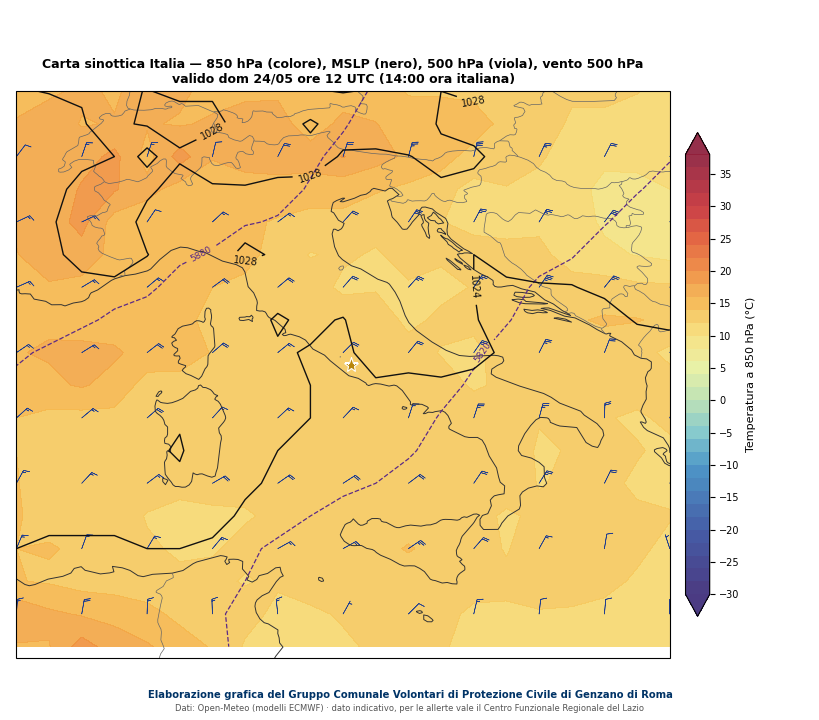
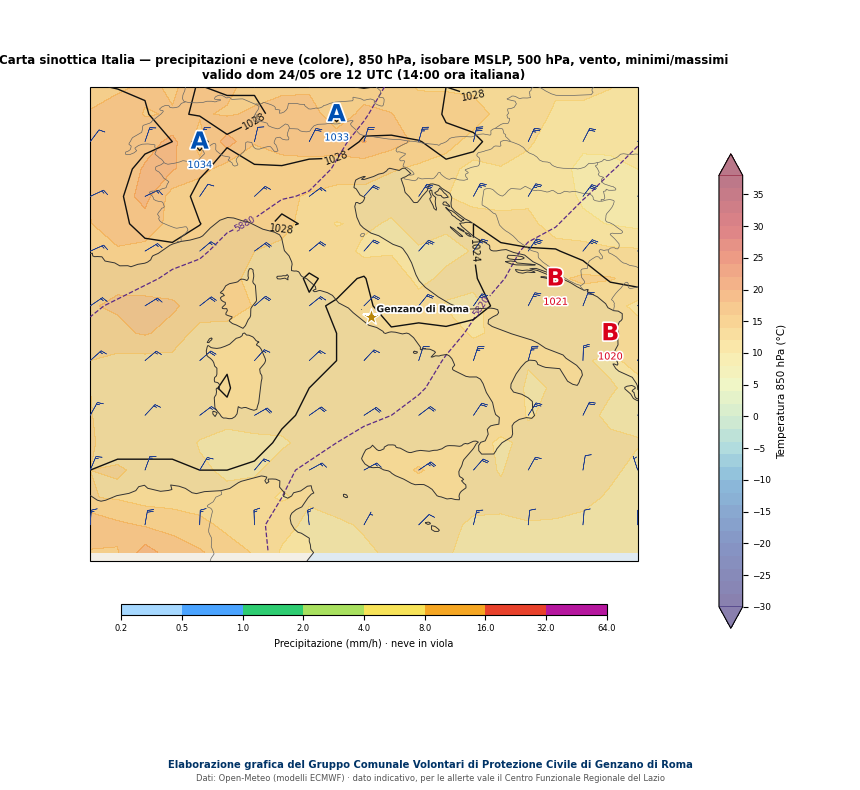
Meteo: sinottica completa (precipitazioni/neve a colori, minimi/massimi B/A, isoterma 0°C 850hPa, doppia legenda) + riquadro Genzano di Roma completo + cartine a piena larghezza
- sinottica: campo precipitazioni e neve a colori (stile radar), centri di pressione B/A con valore, isoterma 0°C a 850hPa (limite pioggia/neve), sfondo terra/mare, label Genzano di Roma, doppia colorbar (temp + precip)
- cartina Lazio: riquadro Genzano di Roma completo (adesso, percepita, max/min, umidità, vento+raffiche, UV, alba, tramonto, prossimi 3 giorni) + province con max/min
- /allerte-meteo/ e confronto: cartine in colonna unica a piena larghezza (leggibilità)

diff --git a/themes/flavour-pcgenzano/static/css/custom.css b/themes/flavour-pcgenzano/static/css/custom.css
@@ -6532,9 +6532,10 @@ html.a11y-pause-anim .consulta-rapida .cr-card:hover { transform: none; }
    METEO CONFRONTO v1.0 — pagina temporanea /meteo-confronto/
    Due opzioni di cartina animata affiancate (A: Lazio SVG, B: sinottica WebP).
    ============================================================ */
-.meteo-confronto { display: grid; grid-template-columns: 1fr 1fr; gap: 1.6rem; margin: 1.6rem 0; }
+/* colonna unica: mappe a piena larghezza per la massima leggibilità */
+.meteo-confronto { display: grid; grid-template-columns: 1fr; gap: 2.2rem; margin: 1.6rem 0; }
 .meteo-confronto-col { min-width: 0; }
-.meteo-confronto-col h2 { margin-top: 0; }
+.meteo-confronto-col h2, .meteo-confronto-col h3 { margin-top: 0; color: #003366; }
 .meteo-confronto-col figure { margin: 0 0 .7rem; max-width: none; }
 .meteo-confronto-col img { width: 100%; height: auto; border: 1px solid #d4dde6;
   border-radius: 8px; background: #fff; box-shadow: 0 2px 8px rgba(0,51,102,.08); }
@@ -6542,4 +6543,3 @@ html.a11y-pause-anim .consulta-rapida .cr-card:hover { transform: none; }
 .meteo-confronto-col p { font-size: .95rem; margin: .4rem 0; }
 .meteo-confronto-nota { background: #e7f0fa; border-left: 4px solid #003366;
   border-radius: 6px; padding: .85rem 1.05rem; font-size: .95rem; margin-top: 1rem; }
-@media (max-width: 768px) { .meteo-confronto { grid-template-columns: 1fr; } }

diff --git a/scripts/genera-meteo-sinottica.py b/scripts/genera-meteo-sinottica.py
@@ -32,9 +32,11 @@ import numpy as np
 import matplotlib
 matplotlib.use("Agg")
 import matplotlib.pyplot as plt
-from matplotlib.colors import LinearSegmentedColormap
+from matplotlib.colors import LinearSegmentedColormap, ListedColormap, BoundaryNorm
+from matplotlib.cm import ScalarMappable
 import cartopy.crs as ccrs
 import cartopy.feature as cfeature
+import matplotlib.patheffects as pe
 from PIL import Image
 
 ROOT = os.path.dirname(os.path.dirname(os.path.abspath(__file__)))
@@ -57,7 +59,8 @@ STEP_H = 6                 # ogni 6 ore -> 72 ore
 GENZANO = (41.7085, 12.6916)
 
 HOURLY_VARS = ("pressure_msl", "temperature_850hPa",
-               "geopotential_height_500hPa", "wind_speed_500hPa", "wind_direction_500hPa")
+               "geopotential_height_500hPa", "wind_speed_500hPa", "wind_direction_500hPa",
+               "precipitation", "snowfall")
 
 
 # ----------------------------------------------------------------- fetch a griglia
@@ -124,6 +127,36 @@ def cmap_t850():
     return LinearSegmentedColormap.from_list("t850", pts), lo, hi
 
 
+# scala precipitazioni (mm/h, stile radar) e neve (cm)
+PRECIP_LEVELS = [0.2, 0.5, 1, 2, 4, 8, 16, 32, 64]
+PRECIP_COLORS = ["#a6d8ff", "#4aa3ff", "#2ecc71", "#a8e05f", "#f7e359", "#f5a623", "#e8412b", "#b5179e"]
+SNOW_LEVELS = [0.1, 0.5, 1, 2, 5, 10]
+SNOW_COLORS = ["#e6f2ff", "#bcd6ff", "#c3b6e8", "#9a7fd6", "#6f4fc0"]
+
+
+def find_centers(field, lon2d, lat2d, kind, n=2):
+    """Minimi (B) o massimi (A) locali della pressione, per marcare le strutture."""
+    ny, nx = field.shape
+    mean = float(np.nanmean(field))
+    out = []
+    for iy in range(1, ny - 1):
+        for ix in range(1, nx - 1):
+            v = field[iy, ix]
+            if np.isnan(v):
+                continue
+            win = field[iy - 1:iy + 2, ix - 1:ix + 2].copy()
+            win[1, 1] = np.nan
+            nb = win[~np.isnan(win)]
+            if nb.size == 0:
+                continue
+            if kind == "B" and v < nb.min() and v < mean - 1.0:
+                out.append((v, float(lon2d[iy, ix]), float(lat2d[iy, ix])))
+            if kind == "A" and v > nb.max() and v > mean + 1.0:
+                out.append((v, float(lon2d[iy, ix]), float(lat2d[iy, ix])))
+    out.sort(key=lambda r: r[0], reverse=(kind == "A"))
+    return out[:n]
+
+
 def main():
     now_utc = datetime.datetime.now(datetime.timezone.utc)
     now_roma = datetime.datetime.now(TZ_ROMA)
@@ -153,57 +186,106 @@ def main():
 
     frames = []
     preview_path = None
+    pcmap = ListedColormap(PRECIP_COLORS); pnorm = BoundaryNorm(PRECIP_LEVELS, pcmap.N)
+    scmap = ListedColormap(SNOW_COLORS); snorm = BoundaryNorm(SNOW_LEVELS, scmap.N)
+    land = cfeature.NaturalEarthFeature("physical", "land", "50m", facecolor="#f3efe6")
+    ocean = cfeature.NaturalEarthFeature("physical", "ocean", "50m", facecolor="#dfeaf2")
+
     for fi, hi in enumerate(indici):
         t850 = campo(results, "temperature_850hPa", nlat, nlon, hi)
         mslp = campo(results, "pressure_msl", nlat, nlon, hi)
         g500 = campo(results, "geopotential_height_500hPa", nlat, nlon, hi)
         ws = campo(results, "wind_speed_500hPa", nlat, nlon, hi)
         wd = campo(results, "wind_direction_500hPa", nlat, nlon, hi)
+        precip = campo(results, "precipitation", nlat, nlon, hi)
+        snow = campo(results, "snowfall", nlat, nlon, hi)
         # vento -> componenti (kt). dir = direzione DA cui spira.
         wr = np.radians(wd)
         u = -(ws / 1.852) * np.sin(wr)
         v = -(ws / 1.852) * np.cos(wr)
 
-        fig = plt.figure(figsize=(8.2, 7.2), dpi=100)
+        fig = plt.figure(figsize=(8.6, 7.9), dpi=100)
         ax = plt.axes(projection=proj)
         ax.set_extent([LON_MIN, LON_MAX, LAT_MIN, LAT_MAX], crs=proj)
 
+        # sfondo terra/mare tenue
+        ax.add_feature(land, zorder=0)
+        ax.add_feature(ocean, zorder=0)
+        # campo termico 850 hPa (sfondo, attenuato)
         cf = ax.contourf(lon2d, lat2d, t850, levels=t_levels, cmap=cmap,
-                         vmin=tlo, vmax=thi, extend="both", transform=proj, alpha=0.92)
+                         vmin=tlo, vmax=thi, extend="both", transform=proj, alpha=0.60, zorder=1)
+        # precipitazioni (pioggia) a colori stile radar
+        pr = np.where(precip >= PRECIP_LEVELS[0], precip, np.nan)
+        if np.isfinite(pr).any():
+            ax.contourf(lon2d, lat2d, pr, levels=PRECIP_LEVELS, cmap=pcmap, norm=pnorm,
+                        extend="max", alpha=0.85, transform=proj, zorder=3)
+        # neve (palette viola)
+        sn = np.where(snow >= SNOW_LEVELS[0], snow, np.nan)
+        if np.isfinite(sn).any():
+            ax.contourf(lon2d, lat2d, sn, levels=SNOW_LEVELS, cmap=scmap, norm=snorm,
+                        extend="max", alpha=0.92, transform=proj, zorder=4)
+        # isoterma 0 °C a 850 hPa (limite indicativo pioggia/neve)
+        try:
+            ci = ax.contour(lon2d, lat2d, t850, levels=[0], colors="#0050b3",
+                            linewidths=1.6, linestyles=(0, (5, 2)), transform=proj, zorder=5)
+            ax.clabel(ci, inline=True, fontsize=6, fmt="0°C")
+        except Exception:
+            pass
         # geopotenziale 500 hPa (saccature/promontori)
         cg = ax.contour(lon2d, lat2d, g500, levels=g_levels, colors="#5b2a86",
-                        linewidths=0.9, linestyles="dashed", transform=proj)
+                        linewidths=0.9, linestyles="dashed", transform=proj, zorder=5)
         ax.clabel(cg, inline=True, fontsize=6.5, fmt="%d")
         # isobare MSLP
         cp = ax.contour(lon2d, lat2d, mslp, levels=p_levels, colors="#111111",
-                        linewidths=1.0, transform=proj)
+                        linewidths=1.0, transform=proj, zorder=6)
         ax.clabel(cp, inline=True, fontsize=7, fmt="%d")
         # barbe vento 500 hPa, sottocampionate
         s = 2
         ax.barbs(lon2d[::s, ::s], lat2d[::s, ::s], u[::s, ::s], v[::s, ::s],
-                 length=4.6, linewidth=0.45, color="#23408f", transform=proj)
+                 length=4.6, linewidth=0.45, color="#23408f", transform=proj, zorder=6)
 
-        ax.add_feature(coast)
-        ax.add_feature(borders)
-        ax.plot(GENZANO[1], GENZANO[0], marker="*", markersize=11, color="#b8860b",
-                markeredgecolor="#ffffff", markeredgewidth=0.8, transform=proj, zorder=6)
+        ax.add_feature(coast, zorder=7)
+        ax.add_feature(borders, zorder=7)
+
+        # minimi (B) e massimi (A) di pressione, con valore
+        stroke = [pe.withStroke(linewidth=2.4, foreground="white")]
+        for vv, lo_, la_ in find_centers(mslp, lon2d, lat2d, "B"):
+            ax.text(lo_, la_, "B", color="#d9001b", fontsize=17, fontweight="bold",
+                    ha="center", va="center", transform=proj, zorder=8, path_effects=stroke)
+            ax.text(lo_, la_ - 0.5, f"{round(vv)}", color="#d9001b", fontsize=7,
+                    ha="center", va="top", transform=proj, zorder=8, path_effects=stroke)
+        for vv, lo_, la_ in find_centers(mslp, lon2d, lat2d, "A"):
+            ax.text(lo_, la_, "A", color="#0050b3", fontsize=17, fontweight="bold",
+                    ha="center", va="center", transform=proj, zorder=8, path_effects=stroke)
+            ax.text(lo_, la_ - 0.5, f"{round(vv)}", color="#0050b3", fontsize=7,
+                    ha="center", va="top", transform=proj, zorder=8, path_effects=stroke)
+
+        # Genzano di Roma
+        ax.plot(GENZANO[1], GENZANO[0], marker="*", markersize=13, color="#b8860b",
+                markeredgecolor="#ffffff", markeredgewidth=0.9, transform=proj, zorder=9)
+        ax.text(GENZANO[1] + 0.15, GENZANO[0] + 0.12, "Genzano di Roma", fontsize=6.8,
+                fontweight="bold", color="#1a1a1a", transform=proj, zorder=9, path_effects=stroke)
 
         ft = parsed[hi]
         valid_roma = ft.replace(tzinfo=datetime.timezone.utc).astimezone(TZ_ROMA) if TZ_ROMA else ft
         ax.set_title(
-            f"Carta sinottica Italia — 850 hPa (colore), MSLP (nero), 500 hPa (viola), vento 500 hPa\n"
+            f"Carta sinottica Italia — precipitazioni e neve (colore), 850 hPa, isobare MSLP, 500 hPa, vento, minimi/massimi\n"
             f"valido {GIORNI[ft.weekday()]} {ft.day:02d}/{ft.month:02d} ore {ft.hour:02d} UTC "
             f"({valid_roma.hour:02d}:00 ora italiana)",
-            fontsize=9, fontweight="bold")
+            fontsize=8.5, fontweight="bold")
 
-        cb = fig.colorbar(cf, ax=ax, orientation="vertical", shrink=0.8, pad=0.02, ticks=range(-30, 40, 5))
-        cb.set_label("Temperatura a 850 hPa (°C)", fontsize=8)
-        cb.ax.tick_params(labelsize=7)
-        fig.text(0.5, 0.030, "Elaborazione grafica del Gruppo Comunale Volontari di Protezione Civile di Genzano di Roma",
+        cb = fig.colorbar(cf, ax=ax, orientation="vertical", shrink=0.78, pad=0.01, ticks=range(-30, 40, 5))
+        cb.set_label("Temperatura 850 hPa (°C)", fontsize=7.5)
+        cb.ax.tick_params(labelsize=6.5)
+        cb2 = fig.colorbar(ScalarMappable(norm=pnorm, cmap=pcmap), ax=ax, orientation="horizontal",
+                           shrink=0.7, pad=0.07, aspect=45, ticks=PRECIP_LEVELS)
+        cb2.set_label("Precipitazione (mm/h) · neve in viola", fontsize=7)
+        cb2.ax.tick_params(labelsize=6)
+        fig.text(0.5, 0.028, "Elaborazione grafica del Gruppo Comunale Volontari di Protezione Civile di Genzano di Roma",
                  ha="center", fontsize=7.2, fontweight="bold", color="#003366")
-        fig.text(0.5, 0.012, "Dati: Open-Meteo (modelli ECMWF) · dato indicativo, per le allerte vale il Centro Funzionale Regionale del Lazio",
+        fig.text(0.5, 0.011, "Dati: Open-Meteo (modelli ECMWF) · dato indicativo, per le allerte vale il Centro Funzionale Regionale del Lazio",
                  ha="center", fontsize=6, color="#555555")
-        fig.subplots_adjust(left=0.02, right=0.98, top=0.9, bottom=0.06)
+        fig.subplots_adjust(left=0.02, right=0.98, top=0.89, bottom=0.12)
 
         buf = io.BytesIO()
         fig.savefig(buf, format="png")

diff --git a/scripts/genera-meteo-lazio.py b/scripts/genera-meteo-lazio.py
@@ -148,7 +148,7 @@ def fetch_map():
     lats = ",".join(f"{c[1]}" for c in CAPOLUOGHI)
     lons = ",".join(f"{c[2]}" for c in CAPOLUOGHI)
     url = ("https://api.open-meteo.com/v1/forecast?latitude=" + lats + "&longitude=" + lons +
-           "&daily=temperature_2m_max,weather_code&timezone=Europe%2FRome&forecast_days=1")
+           "&daily=temperature_2m_max,temperature_2m_min,weather_code&timezone=Europe%2FRome&forecast_days=1")
     return _get(url)
 
 def fetch_card():
@@ -180,31 +180,34 @@ def build_svg(map_data, card_data, oggi):
         for r in geo["contesto"]
     )
 
-    # dati per provincia (capoluogo): temp + weather_code
+    # dati per provincia (capoluogo): max, min, weather_code
     perprov = {}
     for i, c in enumerate(CAPOLUOGHI):
         d = map_data[i]["daily"]
-        perprov[c[0]] = (d["temperature_2m_max"][0], d["weather_code"][0])
+        tmin = d.get("temperature_2m_min", [None])[0]
+        perprov[c[0]] = (d["temperature_2m_max"][0], tmin, d["weather_code"][0])
     # posizione manuale dell'etichetta-pillola (lon,lat)
     LBL = {"Viterbo":(12.10,42.42),"Rieti":(12.86,42.40),"Roma":(12.50,41.99),
            "Latina":(13.00,41.42),"Frosinone":(13.45,41.66)}
 
     prov_svg = ""; labels = ""
     for pr in geo["province"]:
-        nome = pr["nome"]; t, wc = perprov[nome]
+        nome = pr["nome"]; t, tmin, wc = perprov[nome]
         col = colore(t)
         for ring in pr["rings"]:
             prov_svg += f'<path d="{ring_path(ring)}" fill="{col}" fill-opacity="0.85" stroke="#ffffff" stroke-width="1.6"/>'
         lx, ly = px(LBL[nome][0], LBL[nome][1])
         desc, ico = wmo(wc)
-        # pillola bianca: nome (sopra) + icona (sx) + temperatura (dx), sempre leggibile
-        pw, ph = 104, 46
+        # pillola bianca: nome (sopra) + icona (sx) + max/min (dx). Larghezza invariata
+        # (province vicine: evitare sovrapposizioni), solo un filo più alta per la minima.
+        min_sp = f'<tspan font-size="12" font-weight="500" fill="#6c757d">/{round(tmin)}&#176;</tspan>' if tmin is not None else ''
+        pw, ph = 104, 50
         labels += (f'<g>'
                    f'<rect x="{lx-pw/2:.1f}" y="{ly-ph/2:.1f}" width="{pw}" height="{ph}" rx="9" '
                    f'fill="#ffffff" fill-opacity="0.93" stroke="{col}" stroke-width="1.6"/>'
-                   f'<text x="{lx:.1f}" y="{ly-9:.1f}" font-size="12.5" font-weight="700" text-anchor="middle" fill="#003366">{nome}</text>'
-                   f'{icona_svg(ico, lx-26, ly+9, 8)}'
-                   f'<text x="{lx+12:.1f}" y="{ly+15:.1f}" font-size="20" font-weight="800" text-anchor="middle" fill="#1a1a1a">{round(t)}&#176;</text>'
+                   f'<text x="{lx:.1f}" y="{ly-11:.1f}" font-size="12.5" font-weight="700" text-anchor="middle" fill="#003366">{nome}</text>'
+                   f'{icona_svg(ico, lx-30, ly+10, 8)}'
+                   f'<text x="{lx+14:.1f}" y="{ly+16:.1f}" font-size="18" font-weight="800" text-anchor="middle" fill="#1a1a1a">{round(t)}&#176;{min_sp}</text>'
                    f'</g>')
 
     # punto Genzano + riquadro di dettaglio collegato.
@@ -222,19 +225,40 @@ def build_svg(map_data, card_data, oggi):
     gz_wind = round(cur["wind_speed_10m"])
     gz_gust = round(cur.get("wind_gusts_10m") or 0)
     gz_desc, gz_ico = wmo(cur["weather_code"])
+    gz_uv = round(gz_d["uv_index_max"][0] or 0)
+    gz_uv_l = uv_label(gz_d["uv_index_max"][0])
+    gz_alba = (gz_d["sunrise"][0] or "")[11:16]
+    gz_tram = (gz_d["sunset"][0] or "")[11:16]
+    # prossimi 3 giorni (mini-strip)
+    days_svg = ""
     # marcatore sul punto
     marker = (f'<circle cx="{gx:.1f}" cy="{gy:.1f}" r="5.5" fill="#b8860b" stroke="#ffffff" stroke-width="2"/>')
-    # riquadro nell'angolo basso-sinistra (mare, area libera), con linea al punto
-    bx, by, bw, bh = 8, Hmap-162, 250, 144
+    # riquadro completo nell'angolo basso-sinistra (mare, area libera), con linea al punto
+    bx, by, bw, bh = 8, Hmap-232, 264, 214
+    for j, i in enumerate((1, 2, 3)):
+        try:
+            wcd = gz_d["weather_code"][i]
+            mx = round(gz_d["temperature_2m_max"][i]); mn = round(gz_d["temperature_2m_min"][i])
+            dd = oggi + datetime.timedelta(days=i)
+            _, ic = wmo(wcd)
+            cxd = bx + bw * (0.2 + 0.3 * j)
+            days_svg += (f'<text x="{cxd:.1f}" y="{by+170:.1f}" font-size="10.5" font-weight="700" text-anchor="middle" fill="#cfe0f0">{GIORNI_BREVI[dd.weekday()]}</text>'
+                         f'{icona_svg(ic, cxd, by+186, 6.5)}'
+                         f'<text x="{cxd:.1f}" y="{by+206:.1f}" font-size="10.5" text-anchor="middle" fill="#ffffff">{mx}&#176;<tspan fill="#9ec5e8">/{mn}&#176;</tspan></text>')
+        except Exception:
+            pass
     cardg = (
         f'<line x1="{bx+bw:.1f}" y1="{by+22:.1f}" x2="{gx:.1f}" y2="{gy:.1f}" stroke="#b8860b" stroke-width="1.4" stroke-dasharray="4 3"/>'
         f'<rect x="{bx}" y="{by}" width="{bw}" height="{bh}" rx="12" fill="#003366" stroke="#b8860b" stroke-width="2"/>'
         f'<text x="{bx+14}" y="{by+25:.1f}" font-size="13.5" font-weight="800" fill="#ffffff">&#9733; Genzano di Roma <tspan font-size="11" font-weight="400" fill="#cfe0f0">&#183; adesso</tspan></text>'
-        f'{icona_svg(gz_ico, bx+36, by+66, 14)}'
-        f'<text x="{bx+70}" y="{by+72:.1f}" font-size="26" font-weight="800" fill="#ffffff">{gz_now}&#176;</text>'
-        f'<text x="{bx+14}" y="{by+96:.1f}" font-size="11.5" fill="#cfe0f0">{gz_desc} &#183; percepita {gz_perc}&#176;</text>'
-        f'<text x="{bx+14}" y="{by+116:.1f}" font-size="11.5" fill="#9ec5e8">Massima {gz_max}&#176; &#183; minima {gz_min}&#176;</text>'
-        f'<text x="{bx+14}" y="{by+135:.1f}" font-size="10.5" fill="#e7eef6">Umidit&#224; {gz_hum}% &#183; Vento {gz_wind} (raff. {gz_gust}) km/h</text>'
+        f'{icona_svg(gz_ico, bx+36, by+64, 14)}'
+        f'<text x="{bx+70}" y="{by+70:.1f}" font-size="26" font-weight="800" fill="#ffffff">{gz_now}&#176;</text>'
+        f'<text x="{bx+14}" y="{by+92:.1f}" font-size="11.5" fill="#cfe0f0">{gz_desc} &#183; percepita {gz_perc}&#176;</text>'
+        f'<text x="{bx+14}" y="{by+110:.1f}" font-size="11.5" fill="#9ec5e8">Massima {gz_max}&#176; &#183; minima {gz_min}&#176;</text>'
+        f'<text x="{bx+14}" y="{by+128:.1f}" font-size="10.5" fill="#e7eef6">Umidit&#224; {gz_hum}% &#183; Vento {gz_wind} (raff. {gz_gust}) km/h</text>'
+        f'<text x="{bx+14}" y="{by+146:.1f}" font-size="10.5" fill="#e7eef6">UV {gz_uv} ({gz_uv_l}) &#183; Alba {gz_alba} &#183; Tramonto {gz_tram}</text>'
+        f'<line x1="{bx+12}" y1="{by+154:.1f}" x2="{bx+bw-12}" y2="{by+154:.1f}" stroke="#1f4a78" stroke-width="1"/>'
+        f'{days_svg}'
     )
 
     PAD=18; HEAD=64; FOOT=82
